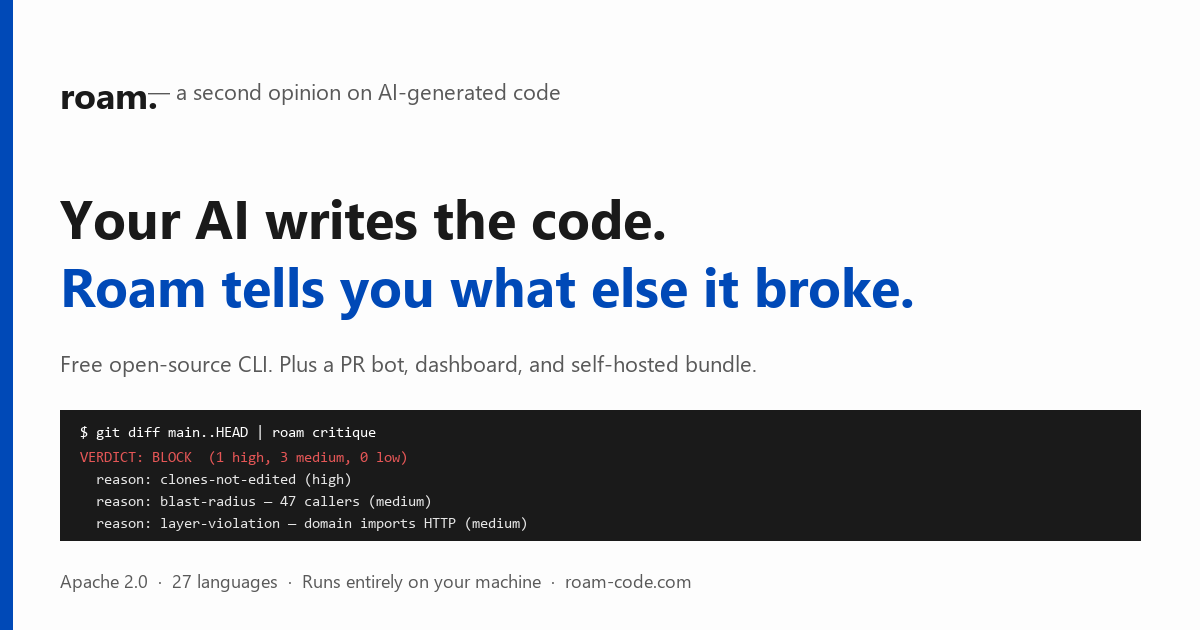
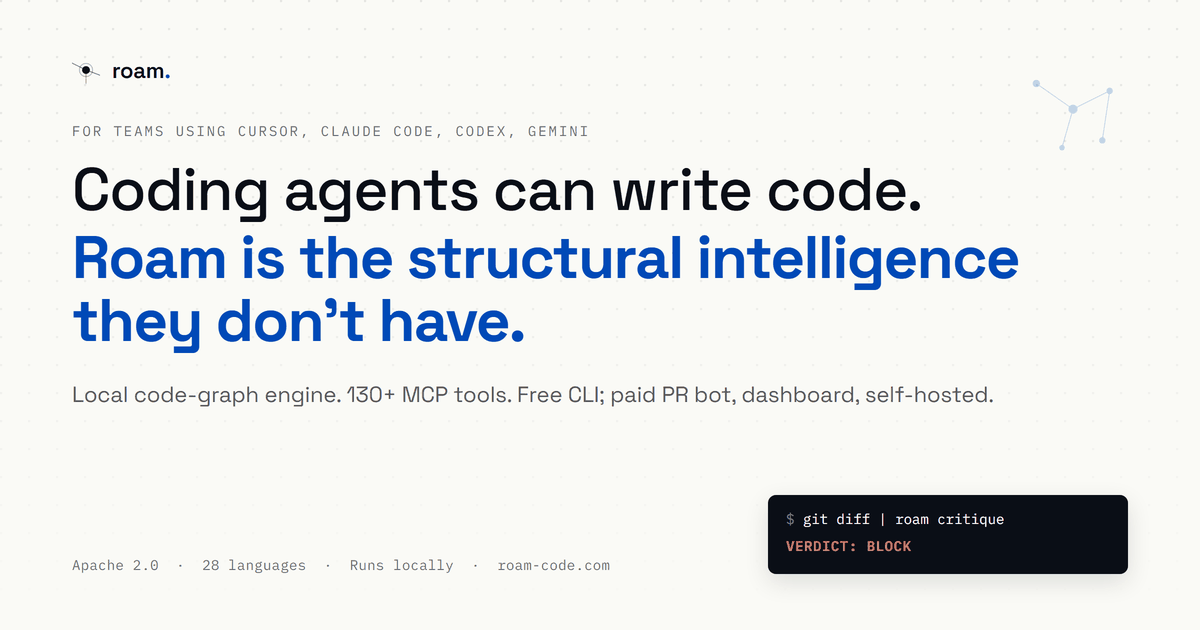
chore: pyproject summary + og.png regen + pricing tier pills
- pyproject.toml description now reads "The local structural intelligence
  layer for coding agents" (was the pre-positioning "Instant codebase
  comprehension..."); will land on PyPI at the next deliberate version
  cut.
- Regenerated og.png at templates/distribution/landing-page/og.png to
  match the locked positioning. Previous image still showed "Your AI
  writes the code. Roam tells you what else it broke." + "second opinion
  on AI-generated code" + "27 languages" — all stale. New 1200x630 PNG
  uses the same paper bg + dot grid + monogram + accent-blue strong
  headline + terminal block footer as the homepage. Rendered via
  headless browser at retina (2400x1260) and downsampled, 60KB.
- Pricing /pricing "Limits and definitions" sub-table — replaced plain
  "Starter — $99/mo" / "Team — $299/mo" / "Business — $799/mo" /
  "Scale — $1,499/mo" cells with .tier-pill + .tier-price treatment:
  pill colour ramps from soft green (Starter) through accent blue
  (Team), purple (Business), to gold (Scale). Reads as a hierarchy at
  a glance instead of plain row text.

Memory: synced infra-state CSP claim — earlier note said "~19 sha256
hashes" but live `_headers` ships only `script-src 'self'`. Updated the
memory file to reflect actual state + flag the JSON-LD-strict-CSP
implication (Googlebot bypasses; browser CSP-Report-Only would log
violations on the 2 inline JSON-LD blocks).

Local-only (gitignored, for next-session pickup):
[…]

diff --git a/templates/distribution/landing-page/landing.css b/templates/distribution/landing-page/landing.css
@@ -3101,3 +3101,46 @@ footer a { color: #fff; }
   }
 }
 
+/* ─── Pricing tier pills ───
+   Used on /pricing for the "Limits and definitions" sub-table so the
+   four tiers read as a hierarchy at a glance instead of plain row text.
+   Subtle colour ramp from soft → bold matching the four price points. */
+.tier-pill {
+  display: inline-block;
+  font-size: 11px;
+  font-weight: 600;
+  letter-spacing: 0.02em;
+  padding: 2px 9px;
+  border-radius: 999px;
+  vertical-align: middle;
+  margin-right: 8px;
+  border: 1px solid transparent;
+  text-transform: uppercase;
+}
+.tier-pill--starter {
+  background: #e6f4ea;
+  color: #1f6f43;
+  border-color: #c4e3d0;
+}
+.tier-pill--team {
+  background: #e7eefb;
+  color: var(--accent);
+  border-color: #c8d6f2;
+}
+.tier-pill--business {
+  background: #efe4f6;
+  color: #6b3e9c;
+  border-color: #d8c3e6;
+}
+.tier-pill--scale {
+  background: #fbf2dc;
+  color: #876016;
+  border-color: #e8d39a;
+}
+.tier-price {
+  font-family: 'IBM Plex Mono', ui-monospace, monospace;
+  font-size: 12px;
+  font-weight: 500;
+  color: var(--ink);
+  font-feature-settings: 'tnum';
+}

diff --git a/templates/distribution/landing-page/pricing.html b/templates/distribution/landing-page/pricing.html
@@ -333,28 +333,28 @@
           </thead>
           <tbody>
             <tr>
-              <th scope="row">Starter — $99/mo</th>
+              <th scope="row"><span class="tier-pill tier-pill--starter">Starter</span> <span class="tier-price">$99/mo</span></th>
               <td>5</td>
               <td>10</td>
               <td>200</td>
               <td>$12/extra author/mo to 20 · $0.50/extra review</td>
             </tr>
             <tr>
-              <th scope="row">Team — $299/mo</th>
+              <th scope="row"><span class="tier-pill tier-pill--team">Team</span> <span class="tier-price">$299/mo</span></th>
               <td>20</td>
               <td>30</td>
               <td>900</td>
               <td>$10/extra author/mo to 75 · $0.40/extra review</td>
             </tr>
             <tr>
-              <th scope="row">Business — $799/mo</th>
+              <th scope="row"><span class="tier-pill tier-pill--business">Business</span> <span class="tier-price">$799/mo</span></th>
               <td>100</td>
               <td>100</td>
               <td>3,000</td>
               <td>$8/extra author/mo to 150 · $0.30/extra review</td>
             </tr>
             <tr>
-              <th scope="row">Scale — $1,499/mo (annual only)</th>
+              <th scope="row"><span class="tier-pill tier-pill--scale">Scale</span> <span class="tier-price">$1,499/mo · annual</span></th>
               <td>negotiated</td>
               <td>250</td>
               <td>8,000</td>